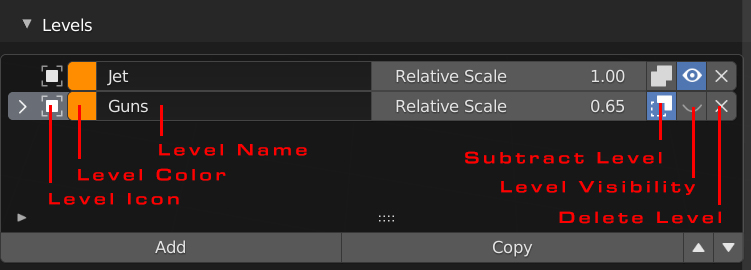
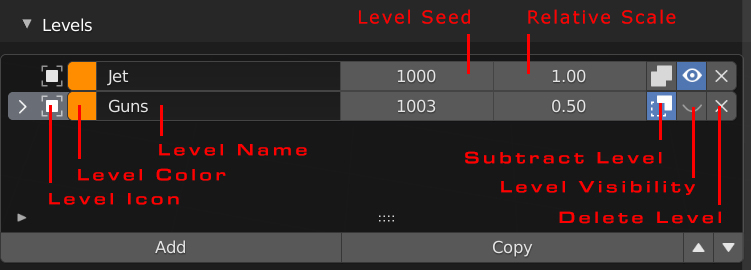
Updating docs for v2 release

diff --git a/docs/_build/html/searchindex.js b/docs/_build/html/searchindex.js
@@ -1,1 +1,1 @@
-Search.setIndex({docnames:["actions/actions","baking/baking","contact/contact","index","iterator/iterator","parameters/parameters_ref","usage/installation","usage/quickstart"],envversion:{"sphinx.domains.c":2,"sphinx.domains.changeset":1,"sphinx.domains.citation":1,"sphinx.domains.cpp":4,"sphinx.domains.index":1,"sphinx.domains.javascript":2,"sphinx.domains.math":2,"sphinx.domains.python":3,"sphinx.domains.rst":2,"sphinx.domains.std":2,sphinx:56},filenames:["actions\\actions.rst","baking\\baking.rst","contact\\contact.rst","index.rst","iterator\\iterator.rst","parameters\\parameters_ref.rst","usage\\installation.rst","usage\\quickstart.rst"],objects:{},objnames:{},objtypes:{},terms:{"0":[1,5],"01":1,"1":5,"2":6,"3d":[1,7],"4":5,"93":6,"boolean":5,"default":5,"do":[2,6],"export":3,"function":4,"long":[1,5],"new":[2,3,5],"try":7,"while":5,A:[1,7],Be:1,By:5,For:5,If:[1,2,4,7],In:5,Is:[],On:5,Ons:6,The:[1,4,5],Then:6,These:5,To:4,abov:6,access:3,ack:4,across:5,action:3,activ:1,ad:7,add:[1,3,5,6,7],after:4,all:[0,1,3,5,7],allow:5,along:6,alreadi:[3,6],also:[1,5,7],alter:1,altern:4,amount:5,an:[3,4,5,7],ani:[1,5],anim:3,anoth:5,appear:[4,6],appli:[1,5],ar:[1,4,5],area:5,around:[3,5],arrow:5,assess:4,assign:5,associ:0,automat:[1,3,4,5],avail:6,bake:3,base:[3,5],becaus:1,befor:3,being:[4,5],below:5,bend:5,bevel:5,blend:7,blender:[1,3,4,5,6,7],both:6,box:6,build:5,button:[0,1,6],cage:3,call:4,camera:4,can:[0,1,4,5,6,7],cancel:3,care:1,carri:1,cast:[5,7],caus:1,chang:[1,3,5,7],check:4,checkbox:6,chipp:3,choos:[1,4,5],chosen:5,click:[5,6],coboid:5,collaps:1,color:5,combin:[1,3,4,5],complet:1,configur:[2,4,7],consist:5,contact:3,control:[1,3,4,7],copi:5,creat:[1,3,4,5],custom:3,customis:3,cut:5,cutter:5,cylind:5,decreas:5,deform:[1,5],delet:[3,5],denot:5,depth:5,describ:5,design:1,desir:5,detail:[1,6],determin:[1,5],dialog:6,differ:[4,5],direct:5,directori:4,displai:[4,5],divid:5,doe:6,down:5,download:6,driven:3,duplic:5,dure:1,dynam:3,e:[1,5],each:[4,5],edg:5,edit:[1,3,6],effect:5,either:7,engin:4,entri:5,exist:[3,4],extrud:5,extrus:5,face:5,far:6,favour:5,featur:[2,4,5,7],fi:3,file:[3,4,6],filenam:4,first:5,follow:[1,6],freez:[1,4],from:[0,1,3,5,6,7],further:[1,5],g:[1,5],gener:[3,6],get:[2,3],gimp:5,go:6,groov:5,ha:5,hand:7,have:[2,3,5,6,7],head:7,height:5,help:1,hesit:2,higher:1,how:[1,5,6],hull:6,icon:5,idea:3,imag:[1,4],increas:5,index:3,info:2,inspir:3,instal:[3,7],instanc:5,instruct:6,intact:1,intens:1,interfac:[3,5],island:5,issu:2,iter:[1,3],its:5,join:3,just:3,kei:7,kit:[3,4],larger:5,latest:6,lattic:[1,3,5],layer:5,leav:1,left:6,length:5,less:1,level:[1,3],like:3,limit:5,link:6,ll:6,load:3,longer:[1,4],low:1,lower:[1,5],mai:4,main:[3,4],make:[1,5,6,7],manag:5,mani:[4,5],master:[4,5,7],materi:[1,3],max:5,maximum:5,maxmum:5,menu:[6,7],merg:1,mesh:[1,3,6],min:5,minimum:5,mirror:[1,5],mode:3,modifi:[1,5],modul:3,more:[5,7],move:5,much:5,multipl:[1,3,5],n:7,name:[4,5],navig:[4,6],need:[3,5,6],net:2,next:[1,6],node:3,note:5,now:3,number:[1,3,5],object:[0,1,3],onc:[5,7],one:[1,3,7],ones:3,onli:5,ons:[3,6],onto:5,op:[3,4],open:6,oper:[1,3,5],option:[3,4,5],origin:5,other:[1,5],out:[3,4],output:4,over:1,overal:5,own:[5,7],page:3,panel:[1,3,7],paramet:[1,3],path:4,pattern:5,perform:1,period:1,photoshop:5,pick:5,pixel:1,plate:[3,6],plating_generator_greebl:6,point:5,positon:5,possibl:4,prefer:[5,6],presenc:4,preset:3,press:[0,7],preview:4,process:[1,4],processor:1,produc:[1,4],project:5,properti:[1,7],proport:5,quad:5,question:2,random:7,randomis:5,randomli:5,rang:[3,4,5],readi:1,recommend:5,rel:5,relat:0,remap:1,remesh:1,remov:[0,1,4],render:[3,4],result:1,retoplogis:1,right:7,run:4,s:[1,3,5],same:5,sampl:[5,7],save:3,scatter:5,scene:[0,4,5],sci:3,sculpt:1,search:[3,6],section:[5,7],see:[4,7],seed:[4,5,7],segment:5,select:[0,5,6,7],set:[1,3,4,5,6],shape:[3,5,6,7],shape_gener:6,shift:7,shipright:7,shipwright:[0,1,4,5,6,7],should:[6,7],side:[5,7],similar:[4,5],simpler:3,singl:3,size:[1,5],slide:5,slope:5,smaller:[1,5],smart:5,smooth:3,smoother:1,so:[1,6],spaceship:5,specif:5,specifi:5,sphere:5,spheric:7,stage:1,start:[3,4],stop:4,sub:5,subdivis:5,subsequ:5,subtract:5,suit:3,suppli:7,sure:[6,7],surfac:5,synth:[3,4],system:3,tab:[6,7],take:1,taken:1,tall:5,taper:5,textur:6,than:[1,5],them:5,thi:[0,1,4,5,6,7],through:[1,7],tick:6,time:1,togeth:1,too:1,toolset:3,top:[5,6,7],topolog:1,touch:2,toward:5,two:5,type:6,u:5,under:[6,7],unfreez:4,uniqu:5,unjoin:1,unzip:6,up:[3,5,6,7],updat:3,us:[1,3,5,7],user:5,v:5,valu:[1,4,5,7],vari:5,variat:3,via:[2,6],view:7,viewport:7,visibl:5,voxel:1,w:5,wai:[1,5],what:5,when:[0,1,4,5],where:[5,6],whether:[4,5],whilst:4,wide:3,width:5,wish:[1,5],within:5,wll:1,x:[5,7],y:5,you:[0,1,2,3,4,5,7],your:[0,1,3,4,5,6,7],z:5,zip:6},titles:["Actions","Joining, Smoothing, and Baking","Contact","The Shipwright V2 documentation","Iterator","Parameters","Installation","Getting Started"],titleterms:{"new":7,The:3,access:7,action:0,ad:5,altern:7,bake:1,befor:6,cancel:4,collect:5,contact:2,content:3,control:5,creat:7,custom:5,delet:0,document:3,end:5,featur:3,file:7,gener:5,get:7,indic:3,instal:6,iter:4,join:1,level:5,load:7,main:[5,6,7],materi:5,object:[5,7],oper:4,overrid:5,paramet:[5,7],plate:5,properti:5,random:5,rotat:5,scale:5,shipwright:3,smooth:1,start:[5,6,7],tabl:3,type:5,us:4,uv:5,v2:3,you:6}})
+Search.setIndex({docnames:["actions/actions","baking/baking","contact/contact","index","iterator/iterator","parameters/parameters_ref","usage/installation","usage/quickstart"],envversion:{"sphinx.domains.c":2,"sphinx.domains.changeset":1,"sphinx.domains.citation":1,"sphinx.domains.cpp":4,"sphinx.domains.index":1,"sphinx.domains.javascript":2,"sphinx.domains.math":2,"sphinx.domains.python":3,"sphinx.domains.rst":2,"sphinx.domains.std":2,sphinx:56},filenames:["actions\\actions.rst","baking\\baking.rst","contact\\contact.rst","index.rst","iterator\\iterator.rst","parameters\\parameters_ref.rst","usage\\installation.rst","usage\\quickstart.rst"],objects:{},objnames:{},objtypes:{},terms:{"0":[1,5],"01":1,"1":5,"2":6,"3d":[1,7],"4":5,"93":6,"boolean":5,"default":5,"do":[2,6],"export":3,"function":4,"long":[1,5],"new":[2,3,5],"try":7,"while":5,A:[1,7],Be:1,By:5,For:5,If:[1,2,4,7],In:5,Is:[],On:5,Ons:6,The:[1,4,5],Then:6,These:5,To:4,abov:6,access:3,ack:4,across:5,action:3,activ:1,ad:7,add:[1,3,5,6,7],after:4,all:[0,1,3,5,7],allow:5,along:6,alreadi:[3,6],also:[1,5,7],alter:1,altern:4,amount:5,an:[3,4,5,7],ani:[1,5],anim:3,anoth:5,appear:[4,6],appli:[1,5],ar:[1,4,5],area:5,around:[3,5],arrow:5,assess:4,assign:5,associ:0,automat:[1,3,4,5],avail:6,bake:3,base:[3,5],becaus:1,befor:3,being:[4,5],below:5,bend:5,bevel:5,blend:7,blender:[1,3,4,5,6,7],both:6,box:6,build:5,button:[0,1,6],cage:3,call:4,camera:4,can:[0,1,4,5,6,7],cancel:3,care:1,carri:1,cast:[5,7],caus:1,chang:[1,3,5,7],check:4,checkbox:6,chipp:3,choos:[1,4,5],chosen:5,click:[5,6],coboid:5,collaps:1,color:5,combin:[1,3,4,5],complet:1,configur:[2,4,7],consist:5,contact:3,control:[1,3,4,7],copi:5,creat:[1,3,4,5],custom:3,customis:3,cut:5,cutter:5,cylind:5,decreas:5,deform:[1,5],delet:[3,5],denot:5,depth:5,describ:5,design:1,desir:5,detail:[1,6],determin:[1,5],dialog:6,differ:[4,5],direct:5,directori:4,displai:[4,5],divid:5,doe:6,down:5,download:6,driven:3,duplic:5,dure:1,dynam:3,e:[1,5],each:[4,5],edg:5,edit:[1,3,6],effect:5,either:7,engin:4,entri:5,exist:[3,4],extrud:5,extrus:5,face:5,far:6,favour:5,featur:[2,4,5,7],fi:3,file:[3,4,6],filenam:4,first:5,follow:[1,6],freez:[1,4],from:[0,1,3,5,6,7],further:[1,5],g:[1,5],gener:[3,6],get:[2,3],gimp:5,go:6,groov:5,ha:5,hand:7,have:[2,3,5,6,7],head:7,height:5,help:1,hesit:2,higher:1,how:[1,5,6],hull:6,icon:5,idea:3,imag:[1,4],increas:5,index:3,individu:5,info:2,inspir:3,instal:[3,7],instanc:5,instruct:6,intact:1,intens:1,interfac:[3,5],island:5,issu:2,iter:[1,3],its:5,join:3,just:3,kei:7,kit:[3,4],larger:5,latest:6,lattic:[1,3,5],layer:5,leav:1,left:6,length:5,less:1,level:[1,3],like:3,limit:5,link:6,ll:6,load:3,longer:[1,4],low:1,lower:[1,5],mai:4,main:[3,4],make:[1,5,6,7],manag:5,mani:[4,5],master:[4,5,7],materi:[1,3],max:5,maximum:5,maxmum:5,menu:[6,7],merg:1,mesh:[1,3,6],min:5,minimum:5,mirror:[1,5],mode:3,modifi:[1,5],modul:3,more:[5,7],move:5,much:5,multipl:[1,3,5],n:7,name:[4,5],navig:[4,6],need:[3,5,6],net:2,next:[1,6],node:3,note:5,now:3,number:[1,3,5],object:[0,1,3],onc:[5,7],one:[1,3,7],ones:3,onli:5,ons:[3,6],onto:5,op:[3,4],open:6,oper:[1,3,5],option:[3,4,5],origin:5,other:[1,5],out:[3,4],output:4,over:1,overal:5,own:[5,7],page:3,panel:[1,3,7],paramet:[1,3],path:4,pattern:5,percentag:5,perform:1,period:1,photoshop:5,pick:5,pixel:1,plate:[3,6],plating_generator_greebl:6,point:5,positon:5,possibl:4,prefer:[5,6],presenc:4,preset:3,press:[0,7],preview:4,process:[1,4],processor:1,produc:[1,4],project:5,properti:[1,7],proport:5,quad:5,question:2,random:7,randomis:5,randomli:5,rang:[3,4,5],readi:1,recommend:5,rel:5,relat:0,remap:1,remesh:1,remov:[0,1,4],render:[3,4],result:1,retoplogis:1,right:7,run:4,s:[1,3,5],same:5,sampl:[5,7],save:3,scatter:5,scene:[0,4,5],sci:3,sculpt:1,search:[3,6],section:[5,7],see:[4,7],seed:[4,5,7],segment:5,select:[0,5,6,7],set:[1,3,4,5,6],shape:[3,5,6,7],shape_gener:6,shift:7,shipright:7,shipwright:[0,1,4,5,6,7],should:[6,7],side:[5,7],similar:[4,5],simpler:3,singl:3,size:[1,5],slide:5,slope:5,smaller:[1,5],smart:5,smooth:3,smoother:1,so:[1,6],spaceship:5,specif:5,specifi:5,sphere:5,spheric:7,stage:1,start:[3,4],stop:4,sub:5,subdivis:5,subsequ:5,subtract:5,suit:3,suppli:7,sure:[6,7],surfac:5,synth:[3,4],system:3,tab:[6,7],take:1,taken:1,tall:5,taper:5,textur:6,than:[1,5],them:5,thi:[0,1,4,5,6,7],through:[1,7],tick:6,time:1,togeth:1,too:1,toolset:3,top:[5,6,7],topolog:1,touch:2,toward:5,two:5,type:6,u:5,under:[6,7],unfreez:4,uniqu:5,unjoin:1,unzip:6,up:[3,5,6,7],updat:3,us:[1,3,5,7],user:5,v:5,valu:[1,4,5,7],vari:5,variat:3,via:[2,6],view:7,viewport:7,visibl:5,voxel:1,w:5,wai:[1,5],what:5,when:[0,1,4,5],where:[5,6],whether:[4,5],whilst:4,wide:3,width:5,wish:[1,5],within:5,wll:1,x:[5,7],y:5,you:[0,1,2,3,4,5,7],your:[0,1,3,4,5,6,7],z:5,zip:6},titles:["Actions","Joining, Smoothing, and Baking","Contact","The Shipwright V2 documentation","Iterator","Parameters","Installation","Getting Started"],titleterms:{"new":7,The:3,access:7,action:0,ad:5,altern:7,bake:1,befor:6,cancel:4,collect:5,contact:2,content:3,control:5,creat:7,custom:5,delet:0,document:3,end:5,featur:3,file:7,gener:5,get:7,indic:3,instal:6,iter:4,join:1,level:5,load:7,main:[5,6,7],materi:5,object:[5,7],oper:4,overrid:5,paramet:[5,7],plate:5,properti:5,random:5,rotat:5,scale:5,shipwright:3,smooth:1,start:[5,6,7],tabl:3,type:5,us:4,uv:5,v2:3,you:6}})

diff --git a/docs/_build/html/parameters/parameters_ref.html b/docs/_build/html/parameters/parameters_ref.html
@@ -111,12 +111,13 @@
 <p><span class="caption-text">Level Entry Settings</span><a class="headerlink" href="#id2" title="Permalink to this image"></a></p>
 </figcaption>
 </figure>
-<p>Levels are similar to layers in Photoshop or Gimp where each layer builds on top of the other.  In the Shipwright, objects are first created on the base layer and then subsequent layers will randomly scatter objects across the lower layers.</p>
+<p>Levels are similar to layers in Photoshop or Gimp where each layer builds on top of the other.  In the Shipwright, objects are first created on the base level and then subsequent levels will randomly scatter objects across the lower levels.</p>
 <p>The top level display and controls are:</p>
 <ul class="simple">
 <li><p><strong>Level Icon</strong>: The icon denoting what type of object this level is using (e.g. Object/Collection/Generated)</p></li>
-<li><p><strong>Level Color</strong>: Change user interface color of the level for managing multiple layers.</p></li>
+<li><p><strong>Level Color</strong>: Change user interface color of the level for managing multiple levels.</p></li>
 <li><p><strong>Level Name</strong>: Name of the level.</p></li>
+<li><p><strong>Level Seed</strong>: The individual <a class="reference internal" href="#randomness"><span class="std std-ref">random seed value</span></a> for this level.</p></li>
 <li><p><strong>Relative Scale</strong>: The relative scale for each object in the level.</p></li>
 <li><p><strong>Subtract Level</strong>: Use a Boolean <em>subtract</em> operation to use the objects on this level as boolean cutters.</p></li>
 <li><p><strong>Level Visibility</strong>: Whether the level objects are visible in the scene.</p></li>
@@ -136,7 +137,7 @@
 <section id="randomness">
 <h4>Randomness<a class="headerlink" href="#randomness" title="Permalink to this headline"></a></h4>
 <ul class="simple">
-<li><p><strong>Random Seed</strong>:  The random seed used to control the randomness of this specific layer.  This is used in combination with the <a class="reference internal" href="#master-seed"><span class="std std-ref">master seed</span></a> parameter.</p></li>
+<li><p><strong>Random Seed</strong>:  The random seed used to control the randomness of this specific level.  This is used in combination with the <a class="reference internal" href="#master-seed"><span class="std std-ref">master seed</span></a> parameter.</p></li>
 </ul>
 <ul class="simple" id="number-parm">
 <li><p><strong>Number</strong>:  This is the number of objects that are randomly scattered across the surface for this level.</p></li>
@@ -160,7 +161,7 @@
 </section>
 <section id="material-override">
 <h4>Material Override<a class="headerlink" href="#material-override" title="Permalink to this headline"></a></h4>
-<p>This will override the default material for the objects on this layer.</p>
+<p>This will override the default material for the objects on this level.</p>
 </section>
 <section id="generate-uvs">
 <h4>Generate UVs<a class="headerlink" href="#generate-uvs" title="Permalink to this headline"></a></h4>
@@ -184,7 +185,7 @@
 <img alt="Custom Object Panel" src="../_images/custom_object_panel.jpg" />
 <p>You can  add your own in-scene objects.</p>
 <ul class="simple">
-<li><p><strong>Object</strong>: The object you wish to be used when scattering objects onto the layers below.</p></li>
+<li><p><strong>Object</strong>: The object you wish to be used when scattering objects onto the levels below.</p></li>
 </ul>
 </section>
 <section id="collection-of-objects">
@@ -192,7 +193,7 @@
 <img alt="Collections Panel" src="../_images/collections_panel.jpg" />
 <p>You can also use an in-scene collection of objects the scatter onto the surface.</p>
 <ul class="simple">
-<li><p><strong>Collection</strong>: The collection of objects to be used for this layer when scattering objects onto the surface of the lower layers.</p></li>
+<li><p><strong>Collection</strong>: The collection of objects to be used for this level when scattering objects onto the surface of the lower levels.</p></li>
 </ul>
 <p>You can sample the objects in two ways:</p>
 <ul>
@@ -247,7 +248,7 @@
 <p>You can optionally add a Plating effect to the objects using the <a href="https://blendermarket.com/products/plating-generator" target="_blank">Plating Generator</a> Add-On.  Note that faces on the original objects need to be selected and have quad (4-sided) edges.</p>
 <ul class="simple">
 <li><p><strong>Plates Random Seed</strong>:  The random number used to generated different plating patterns.</p></li>
-<li><p><strong>Plating Amount</strong>: The amount of cuts to make the plate.</p></li>
+<li><p><strong>Plating Amount</strong>: The percentage of cuts to make the plate.</p></li>
 <li><p><strong>Plating Groove Width</strong>: The width of the grooves of the plates.</p></li>
 <li><p><strong>Plating Groove Depth</strong>: The depth of the grooves.</p></li>
 <li><p><strong>Plating Height Random Seed</strong>: The random number used to vary the heights of the plates.</p></li>

diff --git a/docs/parameters/parameters_ref.rst b/docs/parameters/parameters_ref.rst
@@ -26,13 +26,14 @@ Levels
 
     Level Entry Settings
 
-Levels are similar to layers in Photoshop or Gimp where each layer builds on top of the other.  In the Shipwright, objects are first created on the base layer and then subsequent layers will randomly scatter objects across the lower layers.
+Levels are similar to layers in Photoshop or Gimp where each layer builds on top of the other.  In the Shipwright, objects are first created on the base level and then subsequent levels will randomly scatter objects across the lower levels.
 
 The top level display and controls are:
 
 * **Level Icon**: The icon denoting what type of object this level is using (e.g. Object/Collection/Generated)
-* **Level Color**: Change user interface color of the level for managing multiple layers.
+* **Level Color**: Change user interface color of the level for managing multiple levels.
 * **Level Name**: Name of the level.
+* **Level Seed**: The individual :ref:`random seed value<Randomness>` for this level.
 * **Relative Scale**: The relative scale for each object in the level.
 * **Subtract Level**: Use a Boolean *subtract* operation to use the objects on this level as boolean cutters.
 * **Level Visibility**: Whether the level objects are visible in the scene.
@@ -57,7 +58,7 @@ These properties apply to any level type.
 Randomness
 ------------------
 
-* **Random Seed**:  The random seed used to control the randomness of this specific layer.  This is used in combination with the :ref:`master seed<master_seed>` parameter.
+* **Random Seed**:  The random seed used to control the randomness of this specific level.  This is used in combination with the :ref:`master seed<master_seed>` parameter.
 
 .. _number_parm:
 
@@ -83,7 +84,7 @@ This controls the range of different rotations for each of the objects created o
 Material Override 
 -----------------------
 
-This will override the default material for the objects on this layer.
+This will override the default material for the objects on this level.
 
 Generate UVs
 ------------------
@@ -116,7 +117,7 @@ Custom Objects
 
 You can  add your own in-scene objects.
 
-* **Object**: The object you wish to be used when scattering objects onto the layers below.
+* **Object**: The object you wish to be used when scattering objects onto the levels below.
 
 Collection of Objects
 ------------------------
@@ -126,7 +127,7 @@ Collection of Objects
 
 You can also use an in-scene collection of objects the scatter onto the surface.
 
-* **Collection**: The collection of objects to be used for this layer when scattering objects onto the surface of the lower layers.
+* **Collection**: The collection of objects to be used for this level when scattering objects onto the surface of the lower levels.
 
 You can sample the objects in two ways:
 
